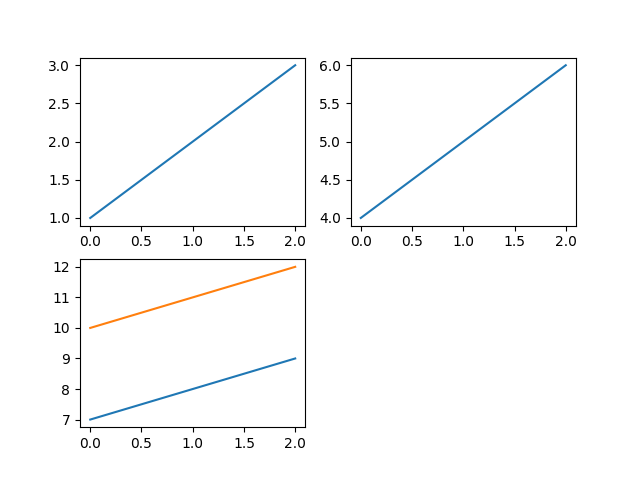
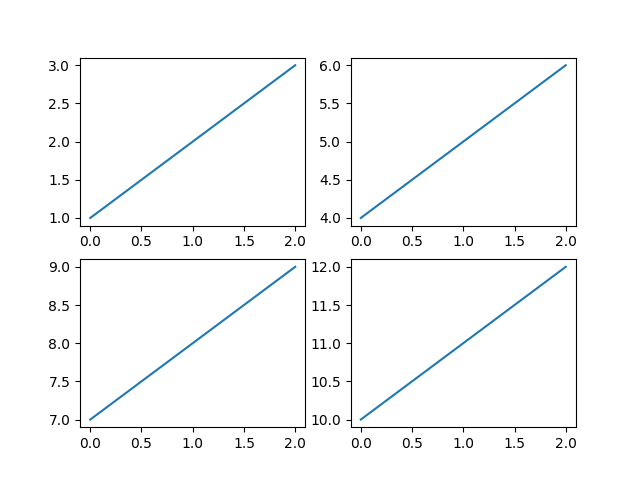
Updated Changes

diff --git a/week03/matplotlib_ex.py b/week03/matplotlib_ex.py
@@ -269,7 +269,7 @@ plt.plot([4, 5, 6])
 plt.subplot(2, 2, 3)
 plt.plot([7, 8, 9])
 
-plt.subplot(2, 2, 3)
+plt.subplot(2, 2, 4)
 plt.plot([10, 11, 12])
 plt.savefig('Figure12.png')
 plt.close()
